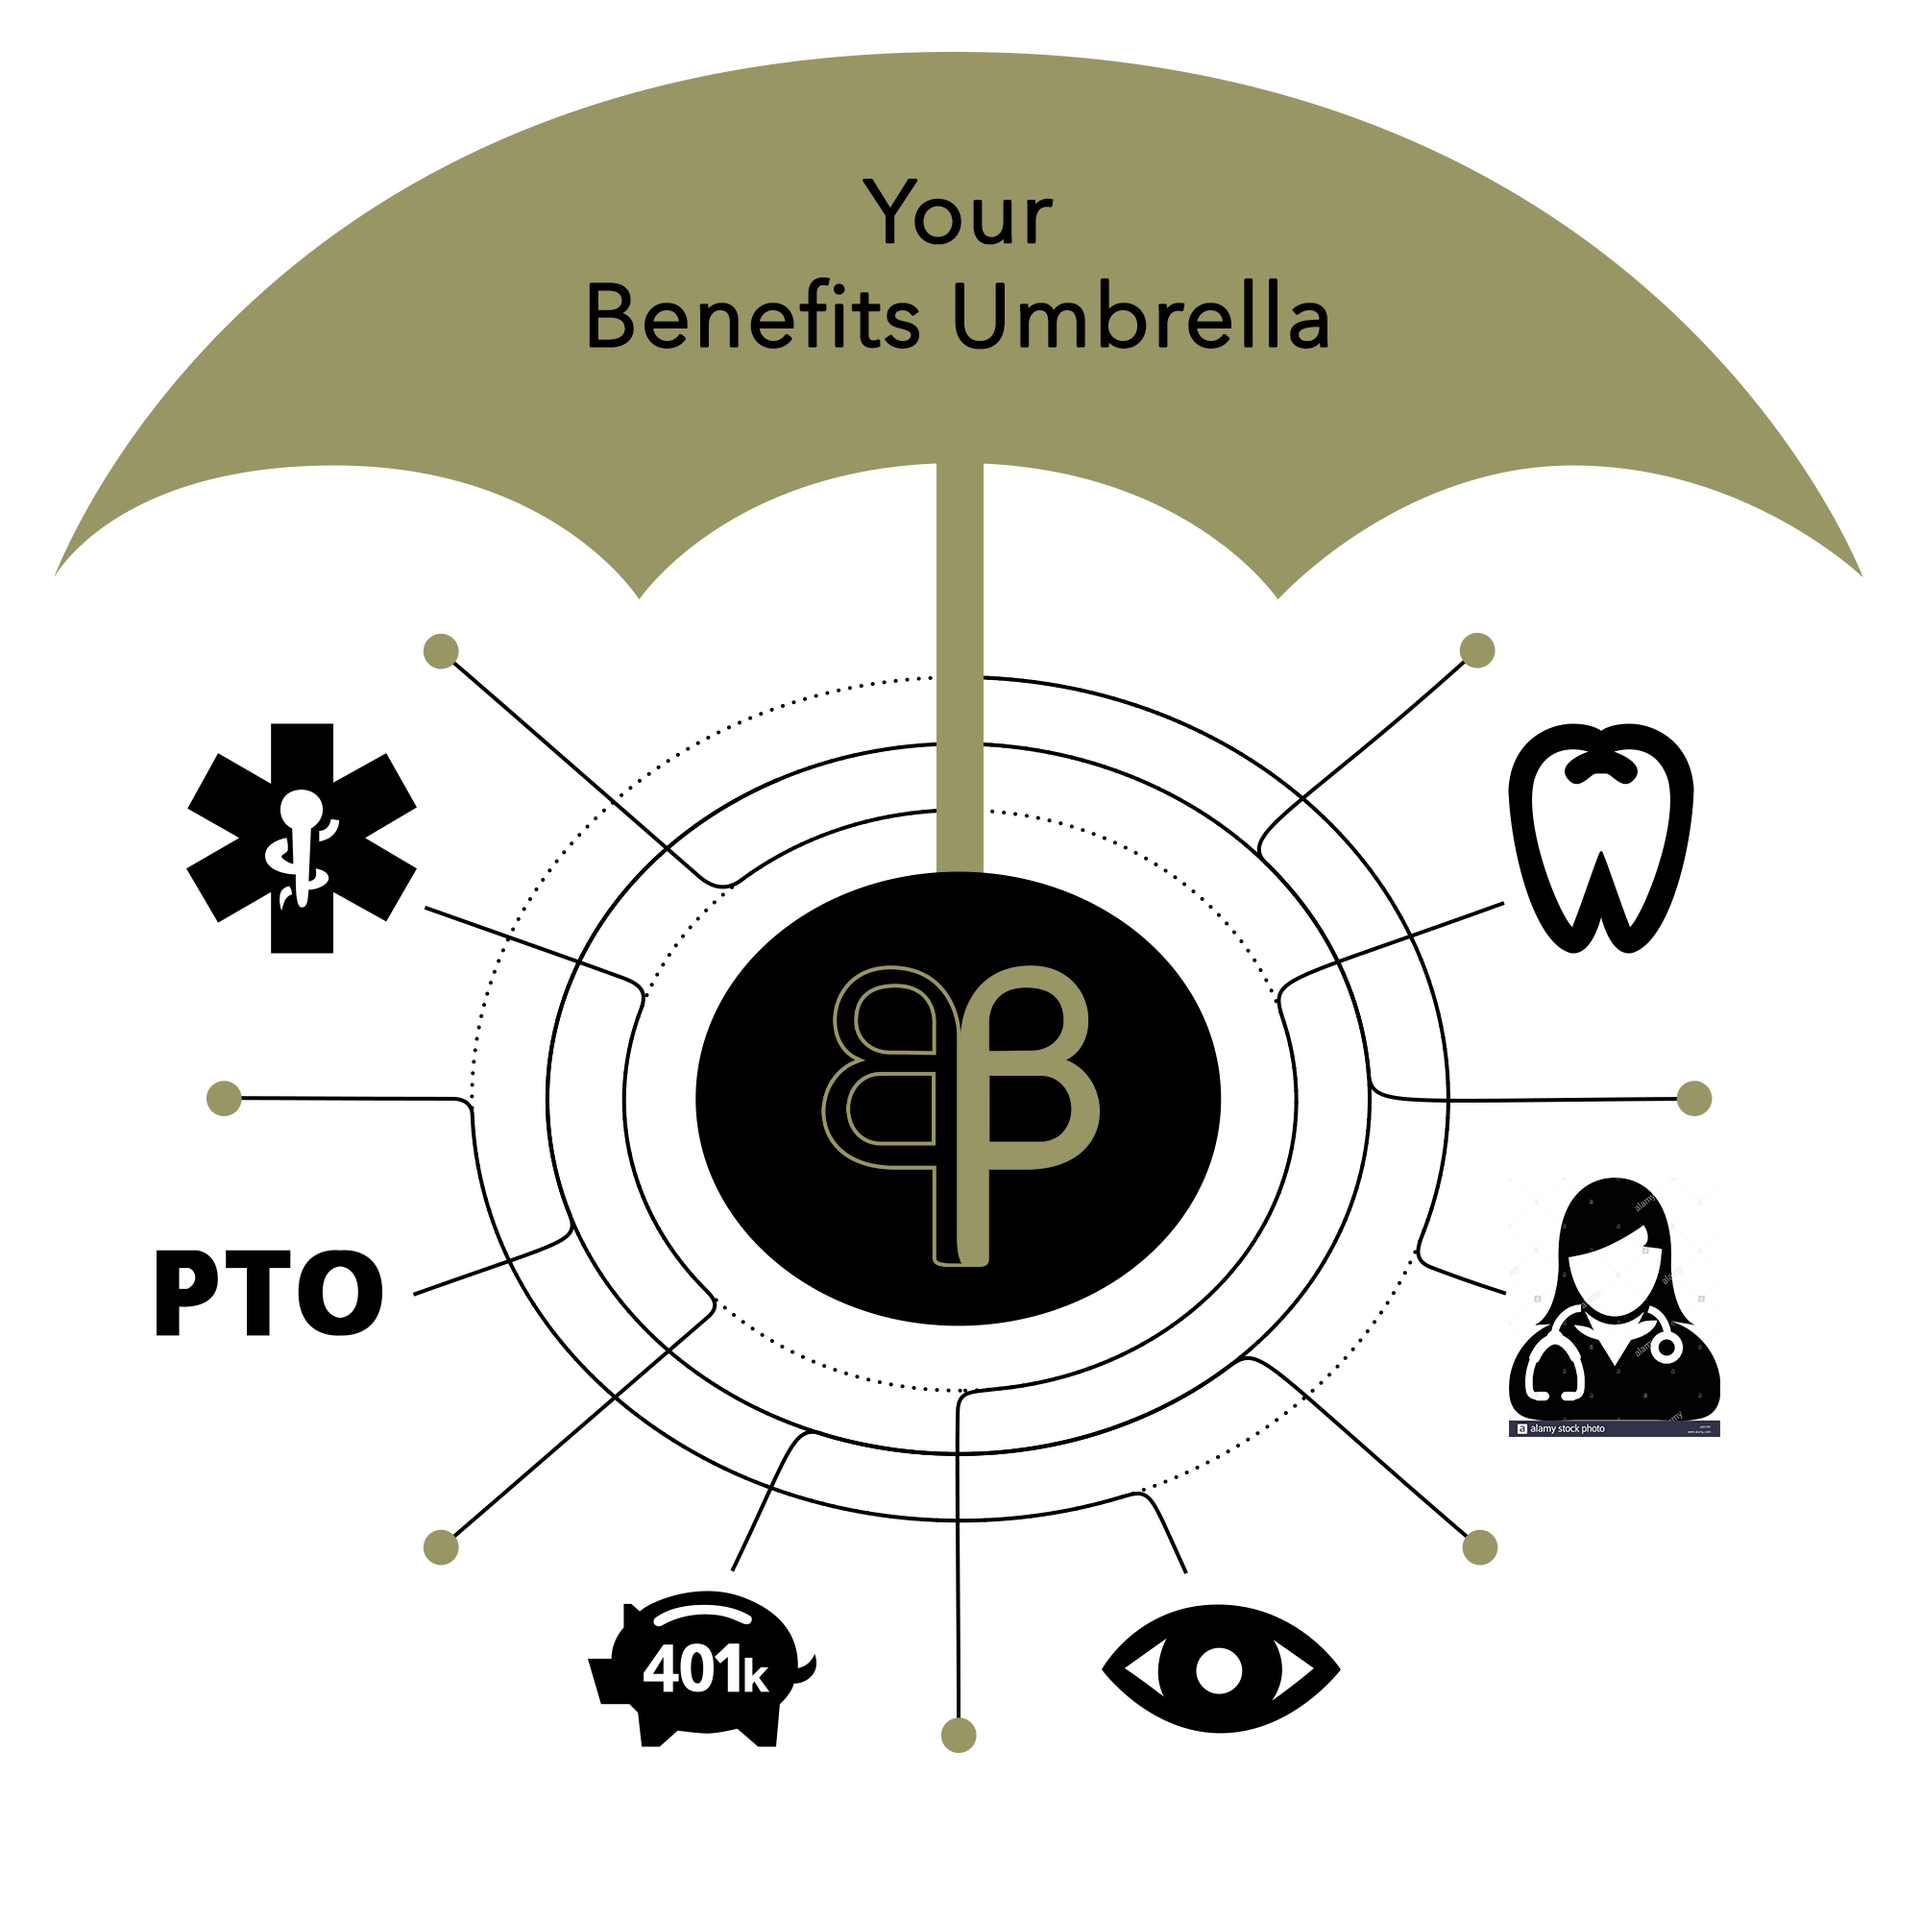
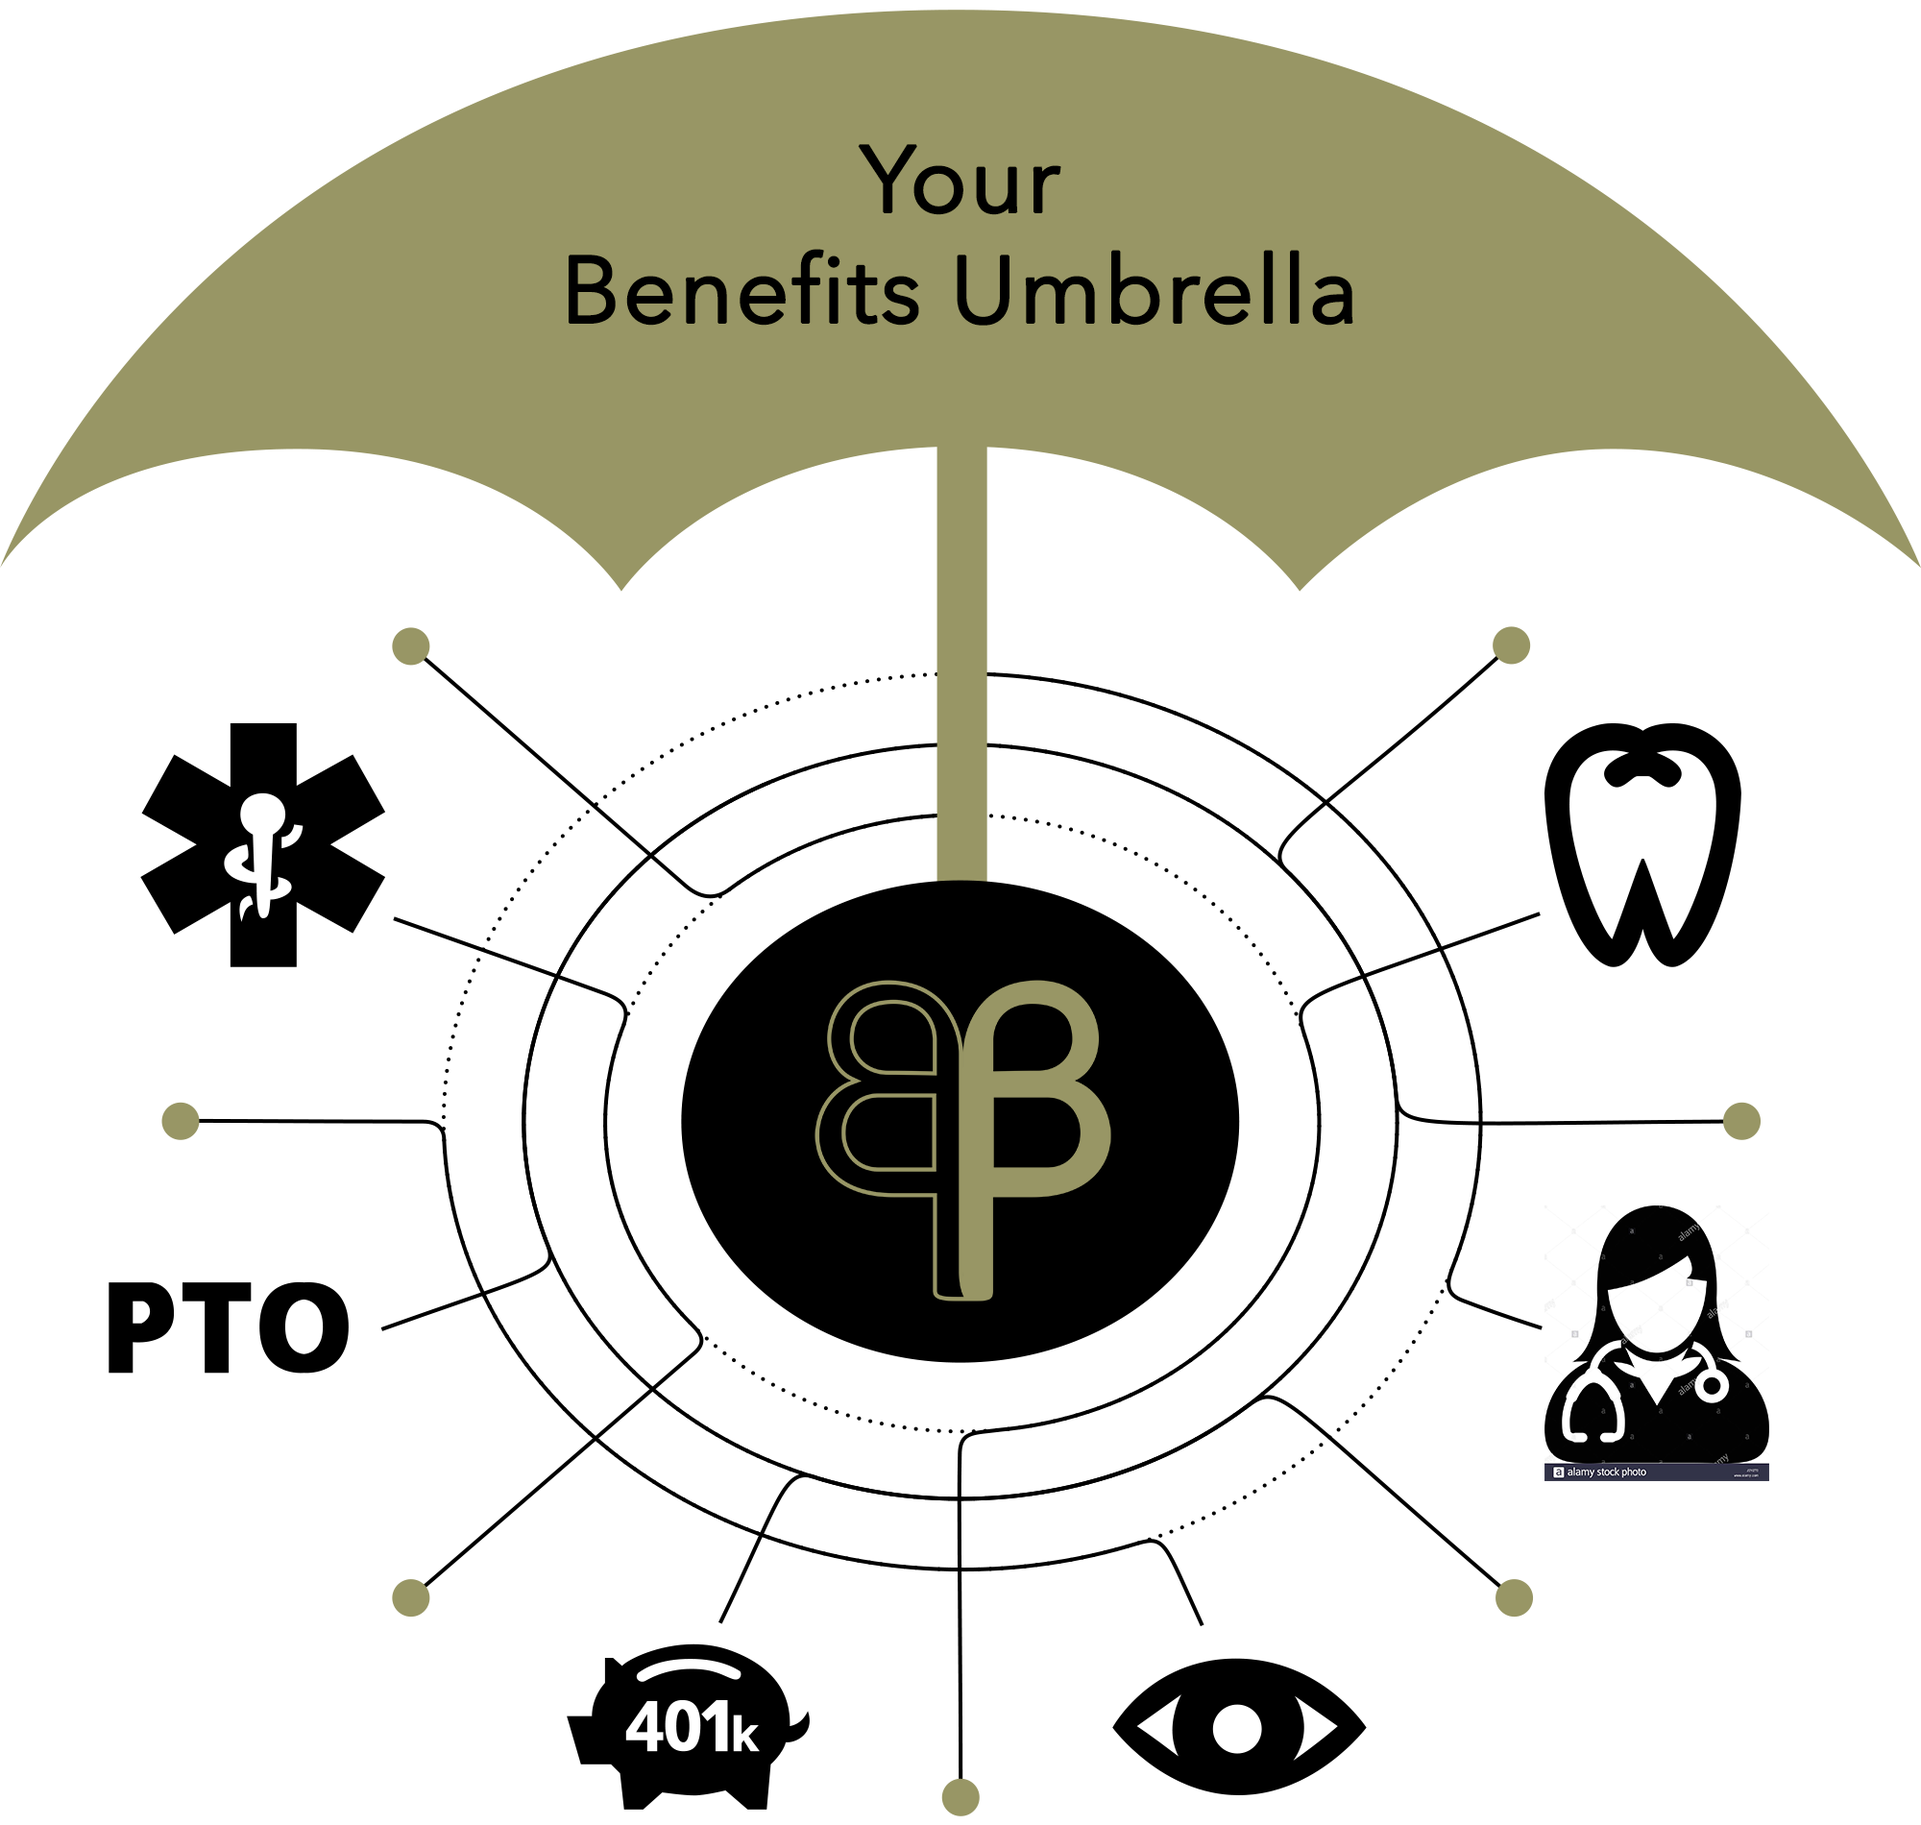
For mobile testing

diff --git a/css/style.css b/css/style.css
@@ -100,17 +100,24 @@ body {
     }
 }
 
-.parallax-background-one {
-    background-image: url('../assets/parallax/Porsche\ 1\ \(quoted\ -\ 3).png');
+.parallax-background {
     background-position: center;
     background-size: contain;
     background-repeat: no-repeat;
 }
-.parallax-background-one img {
+.parallax-background img {
     /* Dirty hack to set background image height :) */
     width: 100%;
     visibility: hidden;
 }
+
+.parallax-background-one {
+    background-image: url('../assets/parallax/Porsche 1.png');
+}
+.parallax-background-two {
+    background-image: url('../assets/parallax/Porsche 2.png');
+}
+
 
 section {
     height: 100vh;
@@ -121,13 +128,14 @@ section {
 }
 
 .section-1 {
+    /* TODO: Remove if height is removed from section */
     height: auto;
     min-height: 100vh;
     justify-content: space-evenly;
 }
 
 .your-benefits-umbrella {
-    width: 100%;
+    width: 90%;
     margin: 20px;
 }
 
@@ -157,5 +165,7 @@ section {
 
 
 
-.section-2 { background-image: linear-gradient(to top, #a18cd1 0%, #fbc2eb 100%); }
+/* .section-2 { background-image: linear-gradient(to top, #a18cd1 0%, #fbc2eb 100%); } */
+.section-2 { background-color: white; }
+
 .section-3 { background-image: linear-gradient(to top, #fbc2eb 0%, #a6c1ee 100%); }

diff --git a/index.html b/index.html
@@ -48,9 +48,9 @@
         </div>
     </div>
 
-    <div class="parallax-background-one">
+    <div class="parallax-background parallax-background-one">
         <!-- Dirty hack to set background image height :) -->
-        <img src="./assets/parallax/Porsche 1 (quoted - 1).png" alt="porsche">
+        <img src="./assets/parallax/Porsche 1.png" alt="Porsche with quote">
     </div>
 
     <section class="section-1 flex-col-center">
@@ -62,6 +62,10 @@
             <p class="umbrella-card-text">Bauer Benefits offers a full suite of optional benefits. Most plans start with the core benefits and then we build from there.</p>
         </div>
     </section>
+
+    <div class="parallax-background parallax-background-two">
+        <img src="./assets/parallax/Porsche 2.png" alt="Porsche with quote">
+    </div>
 
     <section class="section-2 flex-col-center">Section 2</section>
     <section class="section-3 flex-col-center">Section 3</section>
